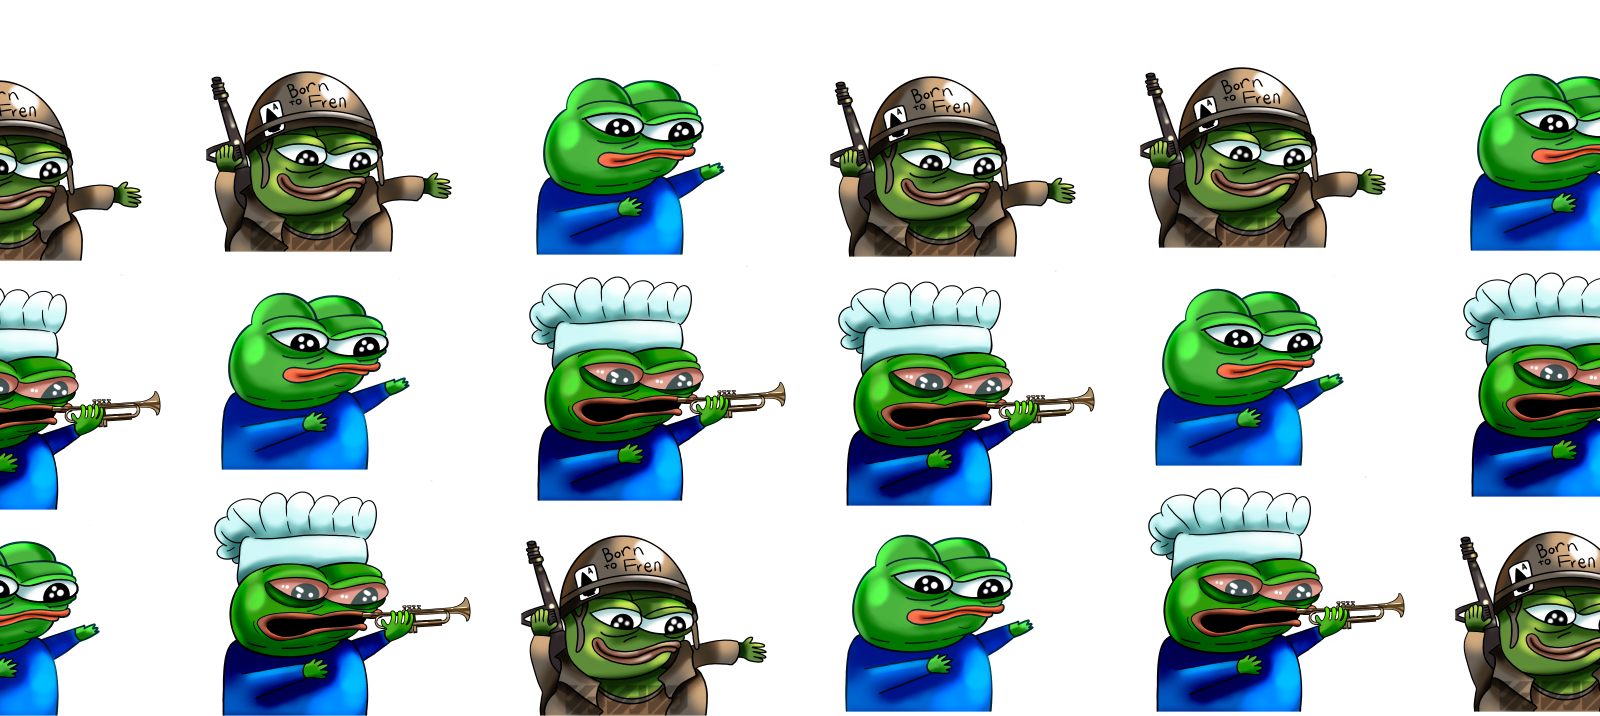
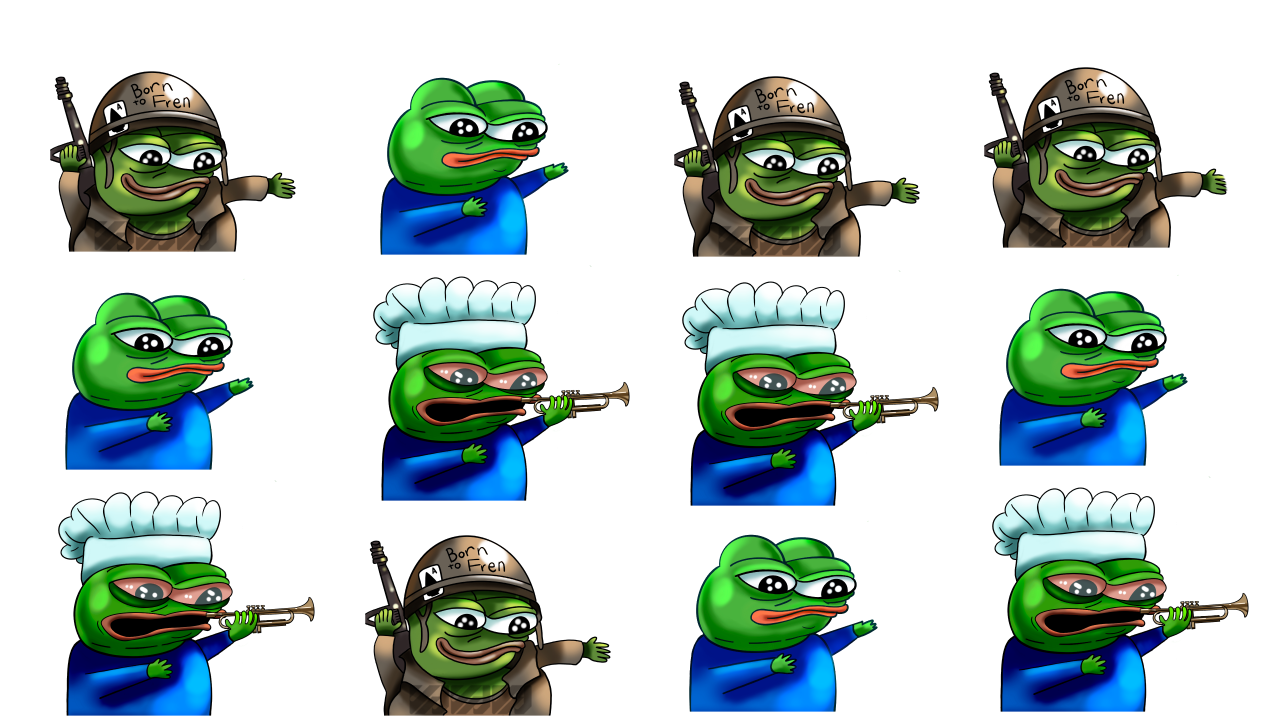
fixed animation bug

diff --git a/pages/index.js b/pages/index.js
@@ -225,8 +225,9 @@ export default function Home() {
       </div>
     
       <div className={styles.animationWrapper}>
+        <div className={styles.neededWrapper}>
           <div className={styles.inner}>
-              <img src="/frogs/1.png" className={styles.frog}/>
+              <img src="/frogs/1.png" className={styles.frog + " " + styles.first}/>
               <img src="/frogs/2.png" className={styles.frog}/>
               <img src="/frogs/3.png" className={styles.frog}/>
               <img src="/frogs/1.png" className={styles.frog}/>
@@ -241,7 +242,7 @@ export default function Home() {
           </div>
 
           <div className={styles.innerTwo}>
-              <img src="/frogs/3.png" className={styles.frog}/>
+              <img src="/frogs/3.png" className={styles.frog + " " + styles.second}/>
               <img src="/frogs/2.png" className={styles.frog}/>
               <img src="/frogs/1.png" className={styles.frog}/>
               <img src="/frogs/3.png" className={styles.frog}/>
@@ -254,6 +255,7 @@ export default function Home() {
               <img src="/frogs/2.png" className={styles.frog}/>
               <img src="/frogs/3.png" className={styles.frog}/>
           </div>
+        </div>
       </div>
     
       <div className={styles.sectionThree}>

diff --git a/styles/Home.module.css b/styles/Home.module.css
@@ -308,13 +308,20 @@
     position: absolute;
     margin-top: -285px;
     overflow: hidden;
+    
 }
 
-.inner {
-    display: flex;
+.neededWrapper {
     transform: rotate(-10deg);
     position: relative;
+    margin-top: -10px;
+}
+
+.inner, .innerTwo {
+    display: flex;
+    position: relative;
     top: -100px;
+    width: 100%;
 }
 
 .frog {
@@ -324,25 +331,22 @@
     position: relative;
 }
 
-.inner .frog:nth-child(1){
-    animation: bannermove 7s linear infinite forwards alternate-reverse;
+
+.first{
+    animation: bannermove 5s linear infinite backwards alternate-reverse;
 }
 
 .innerTwo {
-    display: flex;
-    transform: rotate(-10deg);
-    position: relative;
     top: -80px;
 }
 
-.innerTwo .frog:nth-child(1){
+.second{
     animation: bannermove 6s linear infinite backwards alternate-reverse;
-    animation-play-state: running;
 }
 
 @keyframes bannermove {
     0% {margin-left: 0px;}
-    100% {margin-left: -2200px;}
+    100% {margin-left: -2100px;}
 }
 
 .sectionThree {

diff --git a/styles/globals.css b/styles/globals.css
@@ -4,6 +4,7 @@ html,
 body {
   padding: 0;
   margin: 0;
+  scroll-behavior: smooth;
   font-family: "Inter", -apple-system, BlinkMacSystemFont, Segoe UI, Roboto, Oxygen,
     Ubuntu, Cantarell, Fira Sans, Droid Sans, Helvetica Neue, sans-serif;
 }
